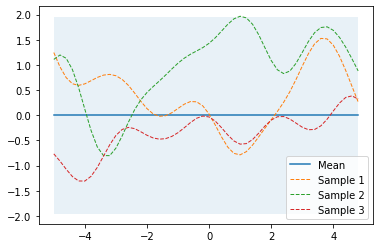
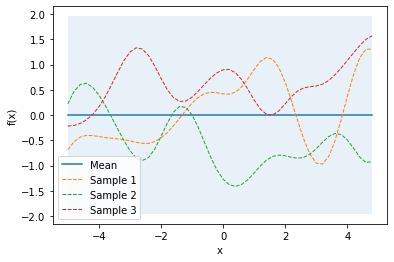
intro_gp_bayes_opt done

diff --git a/content/posts/intro_gp_bayes_opt.md b/content/posts/intro_gp_bayes_opt.md
@@ -48,10 +48,19 @@ The blue solid line represent the mean of the Gaussian process and the shaded bl
 
 The dotted line are the functions sampled from the Gaussian process. Each line gives a mapping function from $x$ to $f(x)$.
 
-Note that the explaination above is from the point of view of function approximation. From the perspective of random process, the Gaussian process can be regarded as a time-variant system that the distribution is changing along the time.
+Note that the explaination above is from the point of view of function approximation. **From the perspective of random process, the Gaussian process can be regarded as a time-variant system that the distribution is changing along the time.**
+
+After understanding the priori, we can see the posteriori of Gaussian Process.
 
 ![](/img/gp/gp_posterior.png)
+
+In the above figure, we estimate 5 points and re-draw the plot. The uncertainty of the estimated points become very small since we now have actual values of them via estimations.
+
 ![](/img/gp/gp_3d.png)
+
+In the view of 3D of the same posteriori, the Z axis means the probability. It illustrates the Gaussian process as a series of varying Gaussian distributions along the different values of $x$.
+
+The above figure can be generated by [this notebook](https://colab.research.google.com/drive/1hsQu8pok1d9VfZDQqjsgiLiqwXhWvrQw?usp=sharing). Specically thanks [Martin Krasser](http://krasserm.github.io/2018/03/19/gaussian-processes/). My notebook code is based on it.
 
 ## Definition
 
@@ -156,15 +165,15 @@ In many machine learning or optimization problem, we need to optimize an unkown 
 ## Definition
 Formaly, suppose we have a block-box function $f : X \to R$ that we with to minimize on some domain $x \subseteq X$ . That is, the Bayesian optimization wish to find
 
-$$\begin{equation} x^{\ast} = \mathop{\arg\max}_{x \in X} \ \ f(x) \end{equation}$$
+$$\begin{equation} x^{\ast} = \mathop{\arg\min}_{x \in X} \ \ f(x) \end{equation}$$
 
 If we use Gaussian Process as prior(Surrogate Model), we can get
 
-$$p(f) = GP(f; µ, K)$$
+$$p(f) = GP(f; \mu, K)$$
 
 Given observations $D = (x,f)$, we can condition our distribution on $D$ as usual
 
-$$p(f | D) = GP(f; µ_{f|D}, K_{f|D})$$
+$$p(f | D) = GP(f; \mu_{f|D}, K_{f|D})$$
 
 ## Surrogate Model
 A popular model is Gaussian Process. Gaussian process defines a prior over functions and provides a flexiable, powerful and, smooth model which is especially suitable for dynamic models.
@@ -177,15 +186,18 @@ The Bayesian optimization procedure is as follows.
 For index $t=1,2,…$ and an acquisition function $a(x|D)$
 
 repeat:
-- Find the next sampling point $x_t$ by optimizing the acquisition function over the surrogate model: $x_t=argmax_{x \in X} \ a(x|D_{1:t−1})$
+- Find the next sampling point $x_t$ by optimizing the acquisition function over the surrogate model: 
+  ### `$x_t = \mathop{\arg\max}_{x \in X} \ a(x|D_{1:t−1})$` 
+  Or 
+  ### `$x_t = \mathop{\arg\min}_{x \in X} \ a(x|D_{1:t−1})$`
+  Depends on the definition of acquisition function $a(x|D_{1:t−1})$
 - Obtain a possibly noisy sample $y_t=f(x_t)+\epsilon_t$ from the objective function $f$.
 - Add the sample to previous samples $D_{1:t}=D_{1:t−1},(x_t,y_t)$ and update the surrogate model.
 
 ---
 
 ## Probability improvement(PI) Method
-A naive idea is always evaluating the points with lowest value. The PI method do the same thing exactly.
-However, the Gaussian Process gives a distribution of $f(x_i)$ on point $x_i$. As a result, in practice, we give an threshold $f'$, integrate the probability of $x_i < f'$ and, pick the point with highest probability.
+A naive idea is always evaluating the points with lowest value and then we can obtain a better result in every iteration. The PI method do the same thing exactly. However, the Gaussian Process gives a distribution of $f(x)$ on point $x$. As a result, in practice, we give an threshold $f'$, integrate the probability of $x < f'$ and, pick the point with highest probability. That is, **PI always choose the point having largest probability of  $x < f'$**.
 
 Formaly, we can define an utility function $u(x)$
 
@@ -212,7 +224,7 @@ Formaly, we suppose that $f'$ is the minimal value of $f$ observed so far. We ca
 
 $$u(x) = \mathop{\max} (0, f' − f(x))$$
 
-The ultility function can be regarded as the advanrage versus the average. Then, we can derive the expectation via integration
+The ultility function can be regarded as the advanrage $f' - f(x)$ versus the current optimal $f'$. Then, we can derive the expectation via integration
 
 $$
 a_{EI}(x|D) = \mathbb{E}[u(x) | x, D] = \int_{-\infty}^{f'} (f' - f) \mathcal{N}(f; \mu(x), \kappa(x, x)) \ df
@@ -226,10 +238,10 @@ We always choose the next evaluating point $x_t$ which has highest $a_{EI}(x|D_{
 
 ### `$\begin{equation} x_t = \mathop{\arg\max}_{x \in X} \ \ a_{EI}(x|D_{1:t−1}) \end{equation}$`
 
-Intuitively, the term $(f' - \mu(x))\phi(f'; \mu(x), \kappa(x, x))$ can be taken as exploitation(it encourage to evaluate the point with higher reward, lower $\mu(x)$), since it means how much advantage does point $x$ has? The term $\kappa(x, x) \mathcal{N}(f'; \mu(x), \kappa(x, x))$ represents how much uncertainty does point $x$ has?, so it can be viewed as exploration(it encourage to evaluate the point with higher uncertainty, higher $\kappa(x, x)$). **EI algorithm can trade off the exploration and exploitation automatically** and also the most popular algorithm of Bayesian Optimization.
+Intuitively, the term $(f' - \mu(x))\phi(f'; \mu(x), \kappa(x, x))$ can be seen as exploitation(it encourage to evaluate the point with higher advantage, lower $\mu(x)$), since it means how much advantage does point $x$ has. The term $\kappa(x, x) \mathcal{N}(f'; \mu(x), \kappa(x, x))$ represents how much uncertainty does point $x$ has, so it can be viewed as exploration(it encourage to evaluate the point with higher uncertainty, higher $\kappa(x, x)$). **EI algorithm can trade off the exploration and exploitation automatically** and also the most popular algorithm of Bayesian Optimization.
 
-## Bayesian Upper Confident Bound(UCB) Method
-Before diving to Bayesian UCB method, please understand the bandit problem first. 
+## Bayesian Upper Confident Bound(Bayesian UCB, aka GP-UCB) Method
+Before diving to Bayesian UCB method, please understand the multi-armed bandit problem and UCB first. 
 
 Bayesian UCB inherents UCB. They both give a relation between upper bound and probability confidence. The different thing is UCB finds the relation with Hoeffding's Inequality while Bayesian UCB find the relation with Gaussian distribution itself. 
 
@@ -237,60 +249,83 @@ For example, it is common that we know if we sample values from Gaussian distrib
 
 ![](/img/gp/gaussian_dist_conf.png)
 
+Formally, we define the acquisition function as following
+
+$$
+a_{UCB}(x|D; \beta) = \mu(x) - \beta \sigma(x)
+$$
+
+where $\beta > 0$ is a tradeoff parameter and $\sigma(x) = \sqrt{\kappa(x, x)}$  is the marginal standard deviation of $f(x)$. 
+
+According the acquisition function, we always choose the next best evaluating point $x_t$
+### `$\begin{equation} x_t = \mathop{\arg\min}_{x \in X} \ \ a_{UCB}(x|D_{1:t−1}; \beta) \end{equation}$`
+
+Again, the GP-UCB acquisition function contains explicit exploitation ($\mu(x)$) and exploration ($\sigma(x)$) terms. Nonetheless, strong theoretical results are known for GP-UCB, namely, that under
+certain conditions, the iterative application of this acquisition function will converge to the true
+global minimum of $f$.
+
 ## Entropy Search
+Since we've known the goal of the optimization problem is 
+
+$$\begin{equation} x^{\ast} = \mathop{\arg\min}_{x \in X} \ \ f(x) \end{equation}$$
+
+where $x^{\ast}$ is the global optimal over the black-box function $f$. The entropy search aims to minimizing the entropy of $p(x^{\ast} | D)$. That is, minimize the uncerntainty of $x^{\ast}$ over the known data set $D$. We can define an utility function as following
+
+$$u(x) = H[x^{\ast} | D] - H[x^{\ast} | D, x, f(x)]$$
+
+where $H$ represent the Shannon entropy of the corresponding data point. The $u(x)$ means **how much uncertinty of $p(x^{\ast} | D)$ does the evaluation reduce after the data point $x$ is evaluated**. In most of the time, the entropy(uncertainty) of $p(x^{\ast} | D)$ should decrease after we evaluate more data points, so $u(x)$ should be positive in general. Thus, the acquisition function should be
+
+$$a_{ES}(x|D) = \mathbb{E}[u(x) | x, D]$$
+
+However, we know $u(x)$ cannot be computed directly since it doesn't have close form. There are a series of approximations trying to do it but I will ignore thme in this blog. Finally, we can choose the next evaluation point $x_t$ as following
+
+### `$\begin{equation} x_t = \mathop{\arg\max}_{x \in X} \ \ a_{ES}(x|D_{1:t−1}; \beta) \end{equation}$`
 
 # Reference 
 
-- [Bayesian Optimization & Algorithm Configuration](https://www.youtube.com/watch?v=6D9Rqda0dpg&feature=youtu.be)
+This article is mainly based on 
 
-  Bayesian optimization of CS159
-
-- [Machine Learning by mathematicalmonk](https://www.youtube.com/playlist?list=PLD0F06AA0D2E8FFBA)
-  
-  Give an intuitive explaination of the math often used in ML.
-
-- [(ML 19.1) Gaussian processes - definition and first examples](https://www.youtube.com/watch?v=vU6AiEYED9E&list=PLD0F06AA0D2E8FFBA&index=150)
-
-  By mathematicalmonk.
-
-- [UAI 2018 2. Bayesian Optimization](https://www.youtube.com/watch?v=C5nqEHpdyoE)
-  
-  A complete and clear talk for the beginner of Bayesian Optimization.
+Gaussian Process
 - [Gaussian processes by Martin Krasser](http://krasserm.github.io/2018/03/19/gaussian-processes/#References)
   
-  The blog provide an excellent and intuitive explanation of Gaussian Process with Python example code.
+  Provide Python code to inference data with GP.
 
-- [Bayesian optimization by Martin Krasser](http://krasserm.github.io/2018/03/21/bayesian-optimization/)
+- [(ML 19.1) Gaussian processes - definition and first examples](https://www.youtube.com/watch?v=vU6AiEYED9E&list=PLD0F06AA0D2E8FFBA&index=150)
   
-  The blog provide an excellent and intuitive explanation of Bayesian Optimization with Python example code.
-
-- [Coursera: Bayesian optimization](https://www.coursera.org/lecture/bayesian-methods-in-machine-learning/bayesian-optimization-iRLaF)
-  
-  The short video provide a very high-level explaination of Bayesian Optimization. Recommend for beginner.
-
-- [Gaussian Processes - Part 1](https://www.youtube.com/watch?v=OdCXdUzLfao)
-
-  The video provide a detailed explaination of Gaussian Process.
+  Made by mathematicalmonk. Give an intuitive explaination of Gaussian processes.
 
 - [A Visual Exploration of Gaussian Processes](https://distill.pub/2019/visual-exploration-gaussian-processes/?fbclid=IwAR3XSg_gQ9KvIG9qPOXCWjGGEhl7b3qSZCLxXeee-uDbuQtktLCf-2lVeno#DimensionSwap)
 
    Provide a lot of interactive widgets to play around with Gausssian Process but fewer math.
 
-- [StackExchange: Intuitive Understanding of Expected Improvement for Gaussian Process](https://stats.stackexchange.com/questions/426782/intuitive-understanding-of-expected-improvement-for-gaussian-process)
+- [Gaussian Processes - Part 1](https://www.youtube.com/watch?v=OdCXdUzLfao)
+
+  Another video providing a detailed explaination of Gaussian Process.
+
 - [ML Tutorial: Gaussian Processes (Richard Turner)](https://www.youtube.com/watch?v=92-98SYOd)
-- [10 Gaussian Processes, pt 1/3 Basics](https://www.youtube.com/watch?v=AEf_ta4vyKU)
 
+  Another video providing a detailed explaination of Gaussian Process.
 
+- [UBC CS - Machine learning - Introduction to Gaussian processes](https://www.youtube.com/watch?v=4vGiHC35j9s&t=2406s)
+  
+  [UBC CS - Machine learning - Gaussian processes](https://www.youtube.com/watch?v=MfHKW5z-OOA)
+  
+  Another video providing a detailed explaination of Gaussian Process.
+
+Conditional Gaussian Distribution
+- [(PP 6.9) Conditional distributions of a Gaussian](https://www.youtube.com/watch?v=G6_OdMXpiVY)
+- [StackExchange - Deriving the conditional distributions of a multivariate normal distribution](https://stats.stackexchange.com/questions/30588/deriving-the-conditional-distributions-of-a-multivariate-normal-distribution)
+
+Bayesian Optimization
+- [Bayesian optimization by Martin Krasser](http://krasserm.github.io/2018/03/21/bayesian-optimization/)
+- [UAI 2018 2. Bayesian Optimization](https://www.youtube.com/watch?v=C5nqEHpdyoE)
+- [Washington University CSE515 - Bayesian Optimization](https://www.cse.wustl.edu/~garnett/cse515t/spring_2015/files/lecture_notes/12.pdf)
+
+Kalman Filter
 - [Bzarg: How a Kalman filter works, in pictures](http://www.bzarg.com/p/how-a-kalman-filter-works-in-pictures/)
   
   Intuitively explain Kalman Filter with picture & examples.
   
 - [图说卡尔曼滤波，一份通俗易懂的教程](https://zhuanlan.zhihu.com/p/39912633)
 
-  Intuitively explain Kalman Filter with picture & examples. The article is translated from Bzarg: How a Kalman filter works, in pictures.
-
-- [The Kalman Filter [Control Bootcamp]](https://www.youtube.com/watch?v=s_9InuQAx-g)
-
-  The video provide the mathmatical proof for Kalman Filter.
-- [(PP 6.9) Conditional distributions of a Gaussian](https://www.youtube.com/watch?v=G6_OdMXpiVY)
-- [Deriving the conditional distributions of a multivariate normal distribution](https://stats.stackexchange.com/questions/30588/deriving-the-conditional-distributions-of-a-multivariate-normal-distribution)
+  Intuitively explain Kalman Filter with picture & examples. The article is translated from Bzarg: How a Kalman filter works.

diff --git a/content/posts/nngp_ntk.md b/content/posts/nngp_ntk.md
@@ -1,0 +1,15 @@
+---
+title: "Toward NNGP and NTK"
+date: 2021-02-19T20:46:29+08:00
+draft: true
+author: SY Chou
+# description: "Introduce"
+categories: ["deep learning", "machine learning", "NNGP", "NTK"]
+series: []
+tags: ["gaussian process", "deep learning", "machine learning", "bayes", "NNGP", "NTK"]
+
+cover:
+    image: "img/just_imgs/ny_skyline.jpg"
+    relative: false
+---
+
